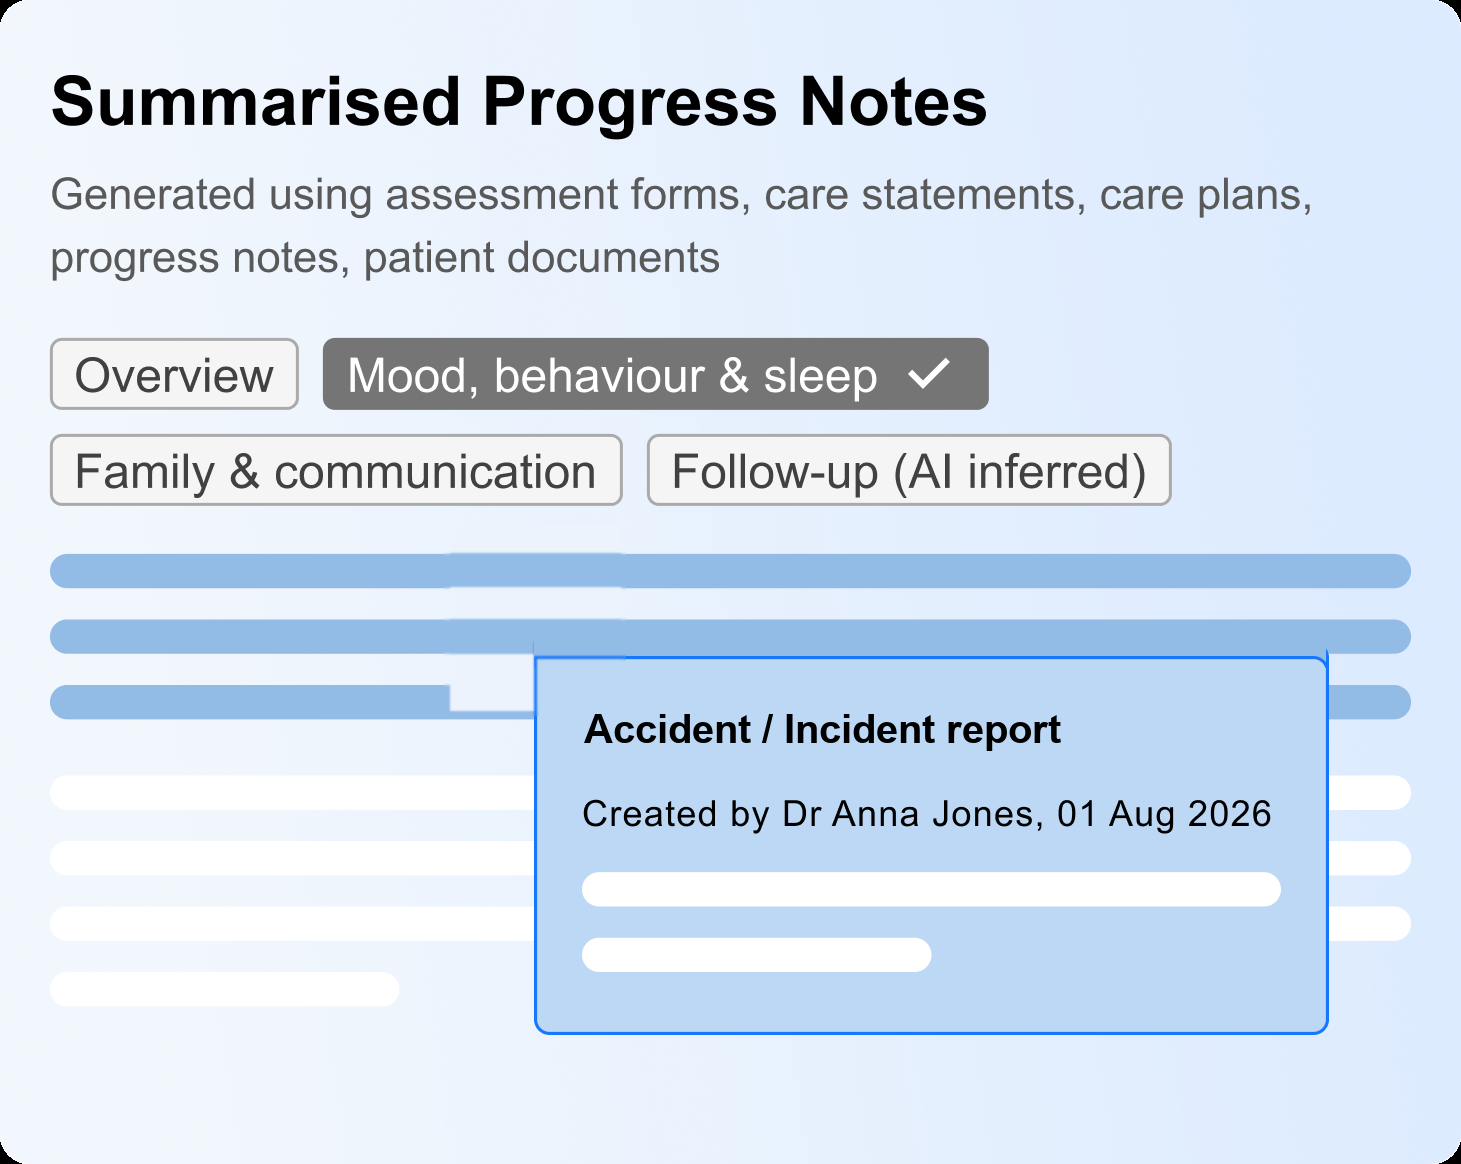
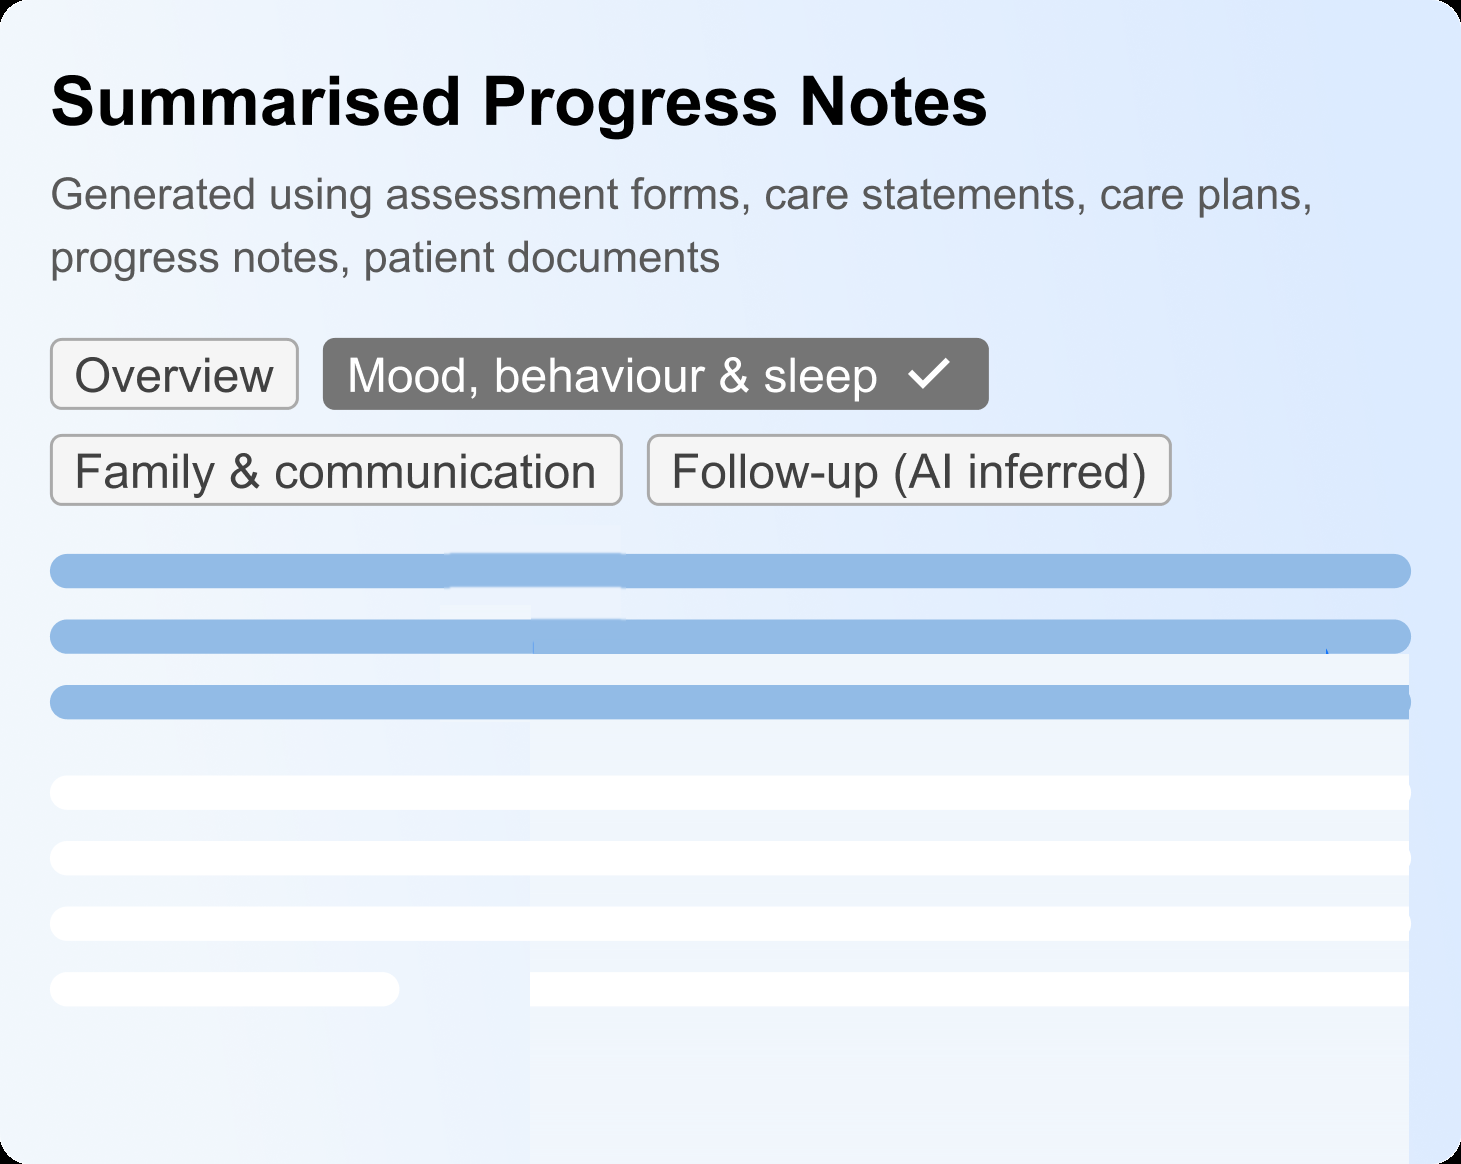
Rebuild the "Accident/Incident report" callout as a live element
The recurring artifact near the scrubber dot wasn't a seam/alignment bug
at all: it was a leftover hole in the source PNG from a much earlier
dot-erasure edit, sitting in a column none of the recent fixes happened
to sample. Rather than keep patching a flattened screenshot that bakes
bars, tabs, and the popup into one raster image, rebuilt the popup as a
real DOM element (.ai-demo__popup) styled from design tokens, with the
dot centered exactly on its CSS corner. The source image now holds only
plain skeleton bars/lines in that area, with the hole filled in.

Changed region(s): [[0.308, 0.5567, 0.9856, 0.8969]]

diff --git a/projects/healthcare-case-study/index.html b/projects/healthcare-case-study/index.html
@@ -792,19 +792,46 @@ section,.card,.badge,.pager__dot,.impact__block{border-radius:var(--radius-none)
 .ai-demo__link path{fill:none;stroke:var(--color-blue);stroke-width:2;}
 .ai-demo__link circle{fill:var(--color-blue);}
 
+/* The "Accident / Incident report" callout — a real DOM card, not baked
+   into the screenshot. The previous approach flattened this card into
+   the same PNG as the skeleton bars, which meant the live scrubber dot
+   had to land on an exact pixel seam between "baked bar" and "baked
+   card" — any mismatch there (and there were a few, across several
+   rounds of image patching) showed up as a visible artifact. A live
+   card has no seam to get wrong: its corner is just a CSS box, and the
+   dot below aligns to that same box exactly, every time, in every
+   browser. The source image now only has plain skeleton bars/lines in
+   this area (see summarised-progress-notes-pullout.png). */
+.ai-demo__popup{
+  position:absolute;left:37.38%;top:56.2%;width:54%;
+  background:#BCD8F4;border:2px solid var(--color-blue);border-radius:8px;
+  padding:14px 16px;box-shadow:0 12px 24px -8px rgba(0,0,15,.25);
+}
+.ai-demo__popup-title{
+  margin:0 0 6px;font-family:var(--font-gellix);font-weight:700;
+  font-size:clamp(11px,1.35vw,15px);color:var(--color-navy);line-height:1.25;
+}
+.ai-demo__popup-meta{
+  margin:0 0 10px;font-family:var(--font-gellix);font-weight:400;
+  font-size:clamp(9px,1.05vw,12px);color:#5B6472;line-height:1.3;
+}
+.ai-demo__popup-bar{
+  display:block;height:clamp(5px,0.9vw,10px);border-radius:6px;
+  background:var(--color-white);margin-top:8px;
+}
+
 /* The scrubber dot — a real, separately-animated element (not baked into
-   the screenshot) so it can pulse. Sits right where this same dot was
-   removed from the source image. Uses scrubber-dot.svg — the actual
+   the screenshot) so it can pulse. Centered exactly on .ai-demo__popup's
+   top-left corner (same left/top basis, offset by half the dot's own
+   size) so the two can never drift apart. Uses scrubber-dot.svg — the
    design-source vector (two flat-filled circles + a proper drop-shadow
-   filter) rather than circle.png, which was a rasterised copy of that
-   same asset whose anti-aliased halo edge showed up as a visible ring/
-   artifact against the blue bar regardless of background. Vector fills
-   have no such soft alpha fringe, so it composites cleanly. aspect-ratio
-   keeps it a true circle regardless of the parent figure's own
-   proportions. */
+   filter) rather than circle.png, a rasterised copy whose anti-aliased
+   halo edge showed up as a visible ring regardless of background.
+   aspect-ratio keeps it a true circle regardless of the parent figure's
+   own proportions. */
 .ai-demo__circle{
   position:absolute;left:34.9%;top:53.1%;width:4.95%;aspect-ratio:1/1;
-  pointer-events:none;opacity:0;
+  pointer-events:none;opacity:0;z-index:1;
 }
 .ai-demo__circle img{width:100%;height:100%;display:block;}
 .ai-demo__circle.is-pulsing{ animation:aiCirclePulse 1.8s ease-in-out infinite; }
@@ -1121,6 +1148,12 @@ section,.card,.badge,.pager__dot,.impact__block{border-radius:var(--radius-none)
 
     <figure class="ai-demo__window" id="aiWinNotes">
       <img src="assets/img/summarised-progress-notes-pullout.png" alt="Summarised Progress Notes pulled out, showing the exact source: an Accident/Incident report by Dr Anna Jones">
+      <div class="ai-demo__popup" id="aiPopup">
+        <p class="ai-demo__popup-title">Accident / Incident report</p>
+        <p class="ai-demo__popup-meta">Created by Dr Anna Jones, 01 Aug 2026</p>
+        <span class="ai-demo__popup-bar" style="width:100%"></span>
+        <span class="ai-demo__popup-bar" style="width:62%"></span>
+      </div>
       <div class="ai-demo__circle" id="aiCircle"><img src="assets/svg/scrubber-dot.svg" alt=""></div>
     </figure>
 
